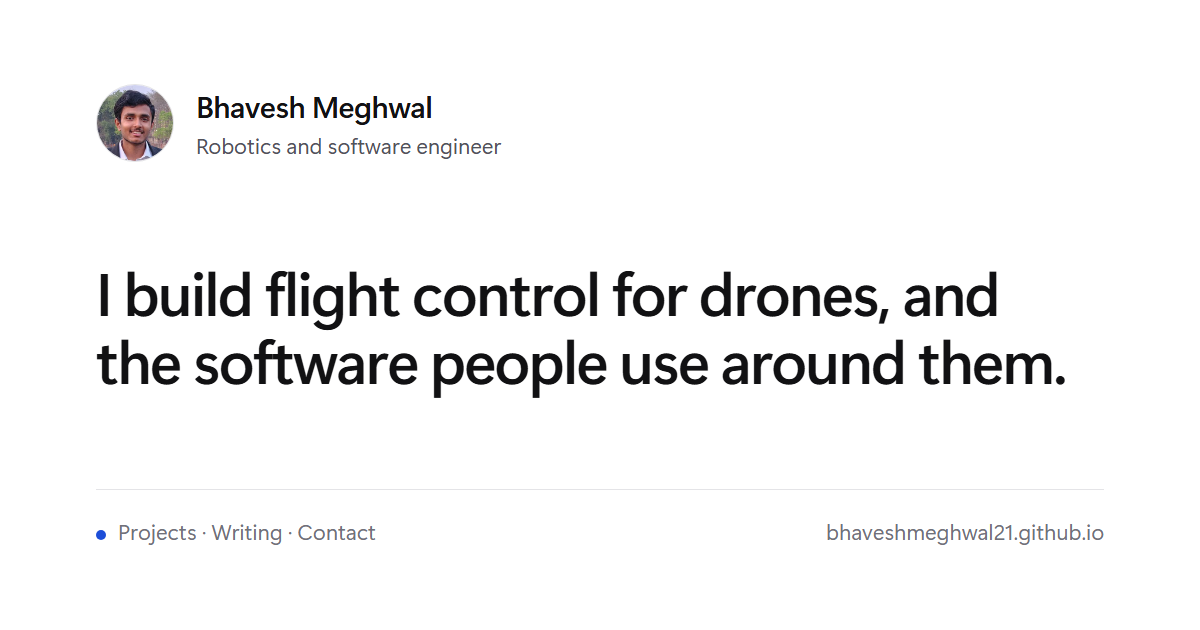
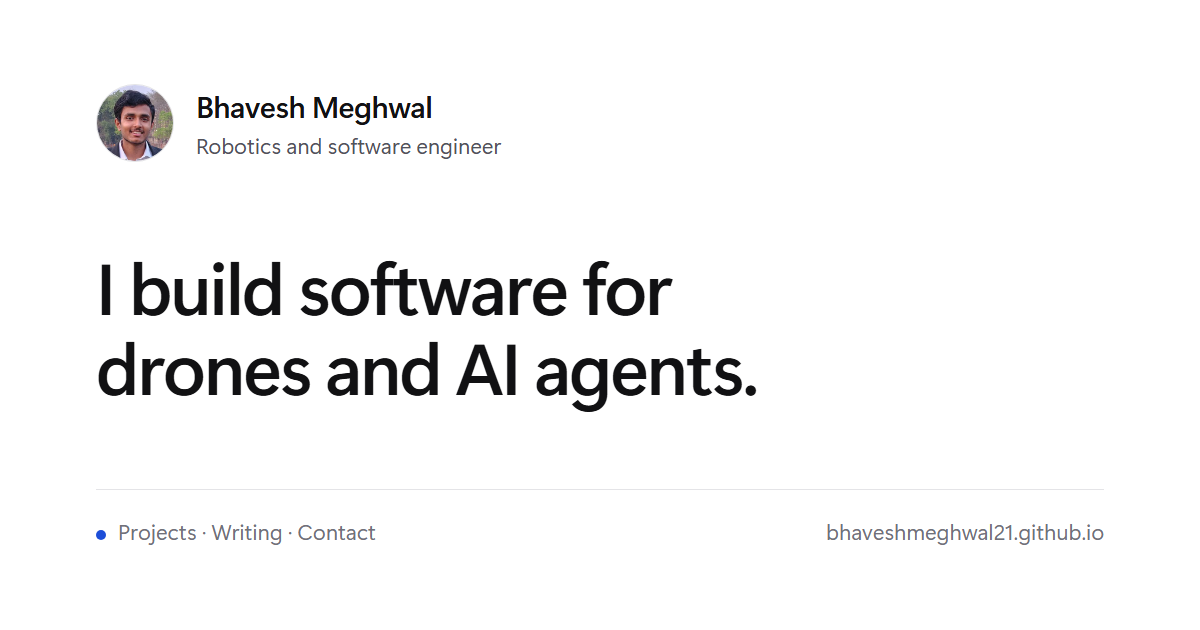
Lead the hero with drone and AI agent software
Update the headline, intro, meta description, social card and Selected work subtitle.

Changed region(s): [[0.0617, 0.3921, 0.8942, 0.6635]]

diff --git a/src/pages/index.tsx b/src/pages/index.tsx
@@ -35,7 +35,7 @@ export default function Home({ projects, posts }: InferGetStaticPropsType<typeof
       <Section
         id="work"
         title="Selected work"
-        description="Open-source tools, AI products and flight control I have built."
+        description="Drone software, AI products and open-source tools I have built."
         action={{ href: '/projects', label: 'All projects' }}
       >
         <ul className="grid gap-4 sm:grid-cols-2">
